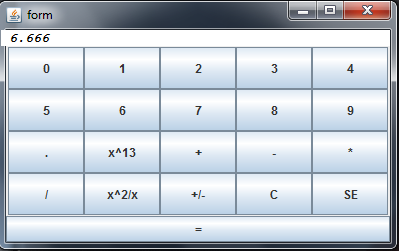
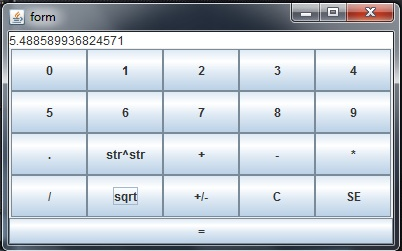
pow

diff --git a/Form.java b/Form.java
@@ -20,7 +20,7 @@ JButton button8=new JButton("8");
 JButton button9=new JButton("9");
 JButton buttonOps=new JButton("+/-");
 JButton buttonPoint=new JButton(".");
-JButton buttonCent=new JButton("x^13");
+JButton buttonCent=new JButton("str^str");
 JButton buttonBack=new JButton("C");
 JButton buttonSE=new JButton("SE");
 JButton buttonSum=new JButton("+");
@@ -28,7 +28,7 @@ JButton buttonMul=new JButton("*");
 JButton buttonDivide=new JButton("/");
 JButton buttonSub=new JButton("-");	
 JButton buttonStart=new JButton("=");
-JButton buttonDiv=new JButton("x^2/x");	                    
+JButton buttonDiv=new JButton("sqrt");	                    
 String operation = "+,-,*,/";
 double firstnum;
 double secondnum;
@@ -108,19 +108,18 @@ buttonOps.addActionListener(new ActionListener(){
 	@Override
 	public void actionPerformed(ActionEvent e){
 		double ops = Double.parseDouble(String.valueOf(display.getText()));
-		ops=ops*(-1);
+		ops*=-1;
 		display.setText(String.valueOf(ops));
-		
-	}
+		}
 });
 buttonDiv.addActionListener(new ActionListener(){
 	@Override
 	public void actionPerformed(ActionEvent e){
 	double firstnum=Double.parseDouble(display.getText());
 	double secondnum=Double.parseDouble(display.getText());
-		String d=display.getText();
-	if(d.indexOf("")==0)display.setText(Math.sqrt(firstnum*secondnum/secondnum)+"");
-   }
+	String sq=display.getText();
+	if(sq.indexOf("")==0)display.setText(Math.sqrt(firstnum*secondnum/secondnum)+"");
+	 }
 });
 buttonPoint.addActionListener(
   new ActionListener(){
@@ -143,9 +142,8 @@ buttonPanel.add(buttonCent);
 	           	public void actionPerformed(ActionEvent e){
 	           		double firstnum=Double.parseDouble(display.getText());
 	           		double secondnum=Double.parseDouble(display.getText());
-	           		String d=display.getText();
-if(d.indexOf("")==0)display.setText(firstnum*secondnum*firstnum*secondnum*firstnum*secondnum*firstnum*secondnum*firstnum*secondnum*firstnum*secondnum*firstnum +""); 
-		      
+	           		String Pow=display.getText();
+                if(Pow.indexOf("")==0)display.setText(Math.pow(firstnum,secondnum)+"");	
    }
 });
    buttonPanel.add(buttonSE);
@@ -204,7 +202,7 @@ double   secondnum=Double.parseDouble(display.getText());
    else if(operation=="/"){
        display.setText((firstnum/secondnum)+"");
    }
-            
+         
 }
 });
 setBounds(400,250,400,250);
